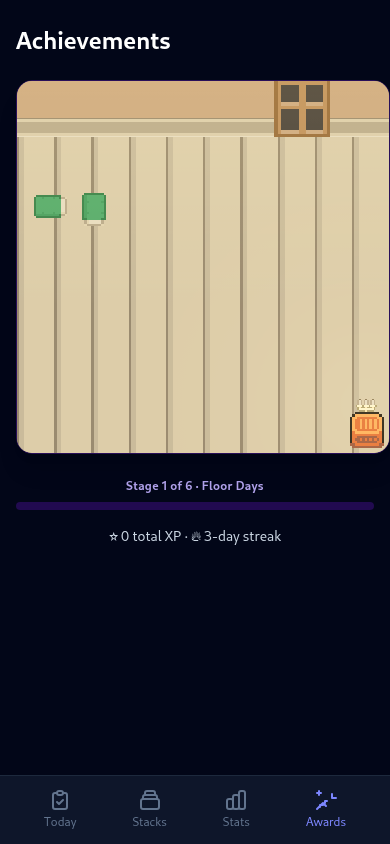
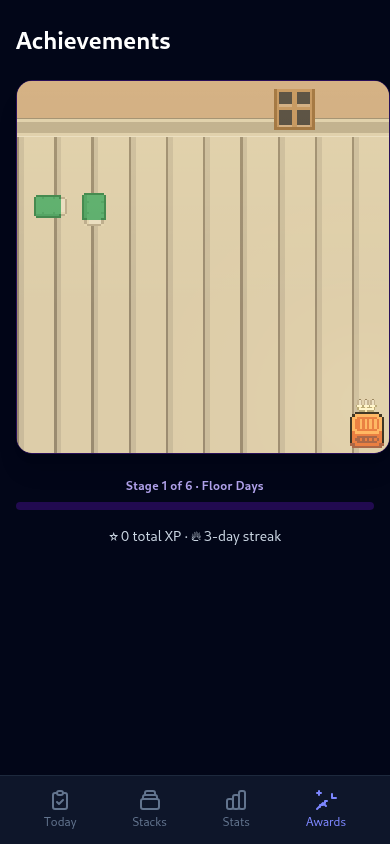
fix: window hangs on the wall instead of filling it
- window item 1.5x1.5 filled the whole wall band; sprite was square so the render rule (width-only sizing) made it wall-height, bottom edge flush with the desk
- now 1.1x1.1 at y 0.22: wall shows above and below, reads as a hung window at every stage
- WINDOW_SPOT updated too, so the night rain overlay follows the new glass automatically
- battery: tests, svelte-check 0/0, builds, e2e visual pass; all four docs renders regenerated (window is stage 1+, so the stage-1 pair changes too)
- verified in-room: window sits mid-wall, clear gap to the desk

Changed region(s): [[0.7077, 0.0924, 0.8615, 0.1848]]

diff --git a/src/lib/room/layout.ts b/src/lib/room/layout.ts
@@ -45,7 +45,7 @@ export const TILE_URLS = {
 export const LAMP_SPOT = { x: 9.4, y: 8.7 } as const;
 
 /** The window (source of the night rain layer), in tile units. */
-export const WINDOW_SPOT = { x: 6.9, y: 0, w: 1.5, h: 1.5 } as const;
+export const WINDOW_SPOT = { x: 6.9, y: 0.22, w: 1.1, h: 1.1 } as const;
 
 export interface RoomItem {
 	id: string;
@@ -71,7 +71,7 @@ export interface RoomItem {
  * (30 tiles, ~a third of the floor).
  */
 export const ROOM_ITEMS: RoomItem[] = [
-	{ id: 'window', src: windowImg, x: 6.9, y: 0, w: 1.5, h: 1.5, stage: 1, alt: 'Night window with four dark panes' },
+	{ id: 'window', src: windowImg, x: 6.9, y: 0.22, w: 1.1, h: 1.1, stage: 1, alt: 'Night window with four dark panes' },
 	{ id: 'shelf-media', src: shelfEmpty, x: 8.9, y: 0.55, w: 0.85, h: 0.5, stage: 6, alt: 'Media shelf against the wall' },
 	{ id: 'speaker', src: speakerImg, x: 9, y: 0.27, w: 0.6, h: 0.5, stage: 6, alt: 'Speaker sitting on the media shelf' },
 	{ id: 'bookshelf-1', src: bookshelf1, x: 4.2, y: 0.62, w: 0.85, h: 0.5, stage: 5, alt: 'Bookshelf with colorful book spines' },
